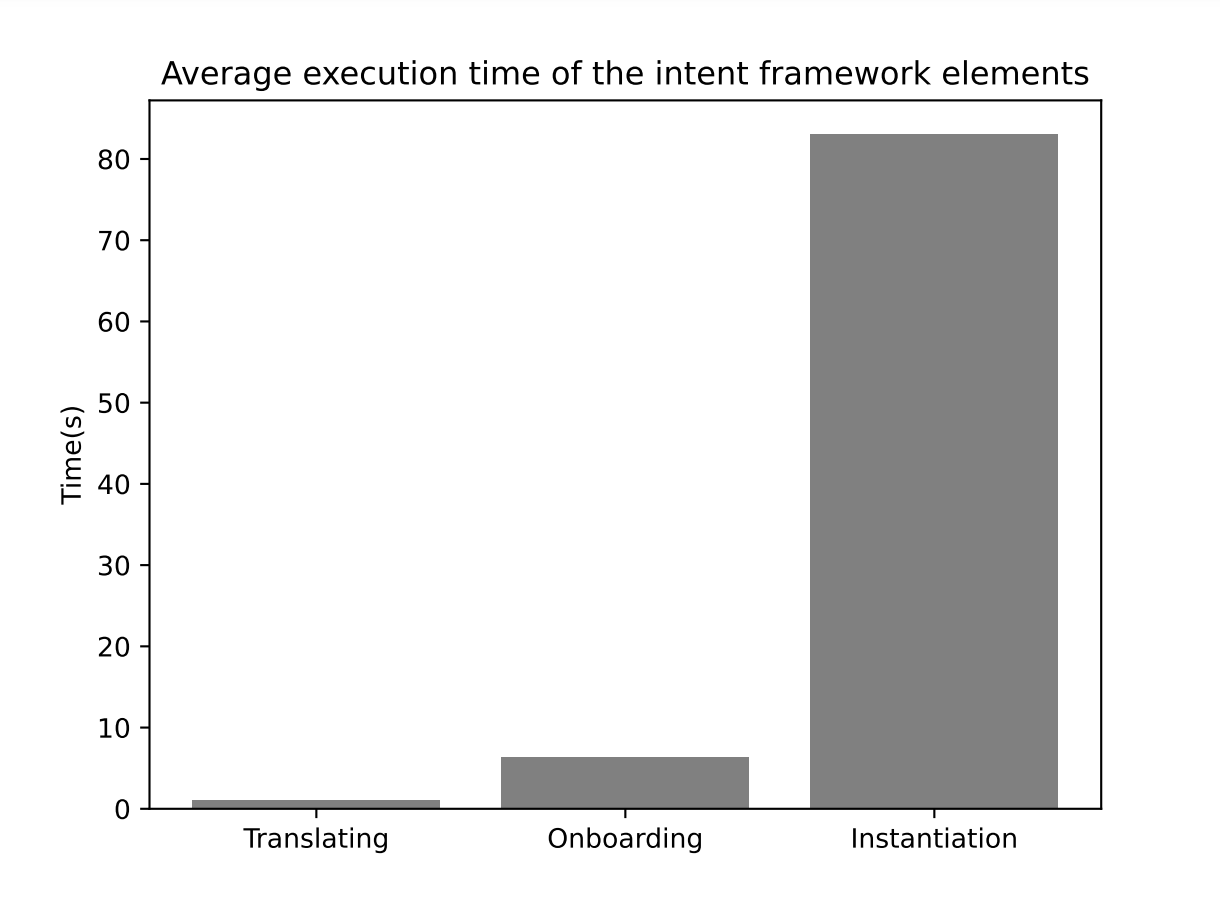
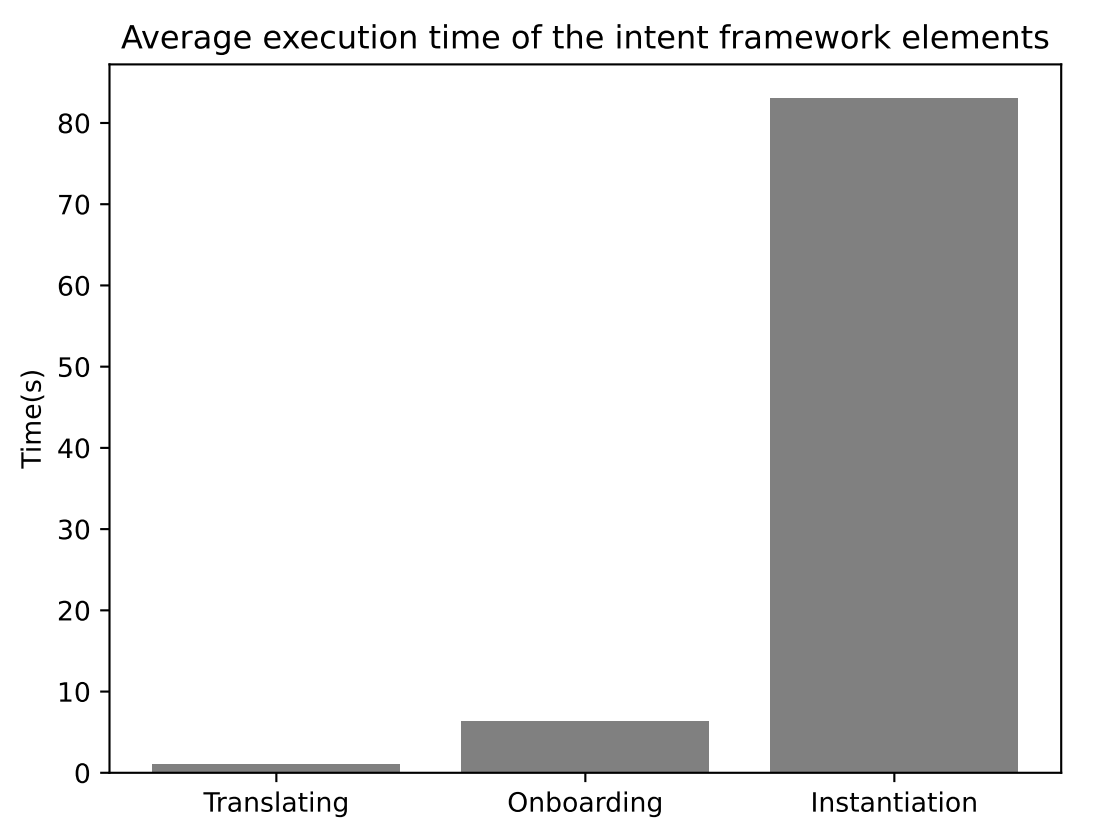
update code

Changed region(s): [[0.0, 0.031, 0.9513, 0.9905]]

diff --git a/plot/plot-instantiation-time.py b/plot/plot-instantiation-time.py
@@ -1,0 +1,18 @@
+import matplotlib.pyplot as plt
+
+fig, ax = plt.subplots()
+
+states = ['2', '3', '4', '5', '6']
+counts = [83.06, 97.97, 113.61, 128.12, 144.63]
+
+bar_colors = ['grey']
+
+ax.bar(states, counts, color=bar_colors)
+
+ax.set_ylabel('Instantiation Time(s)')
+ax.set_xlabel('Number of Virtual Functions')
+
+ax.set_title('Average instantiation time according to the number of virtual functions')
+
+plt.plot()
+plt.show()

diff --git a/plot/plot-execution-time.py b/plot/plot-execution-time.py
@@ -1,0 +1,17 @@
+import matplotlib.pyplot as plt
+
+fig, ax = plt.subplots()
+
+states = ['Translating', 'Onboarding', 'Instantiation']
+ax.set_xticklabels(states, rotation=30)
+counts = [1, 6.32, 83.06]
+bar_colors = ['grey']
+ax.bar(states, counts, color=bar_colors)
+ax.set_ylabel('Time(s)')
+ax.set_title('Average execution time of the intent framework elements')
+
+plt.plot()
+
+plt.show()
+
+
